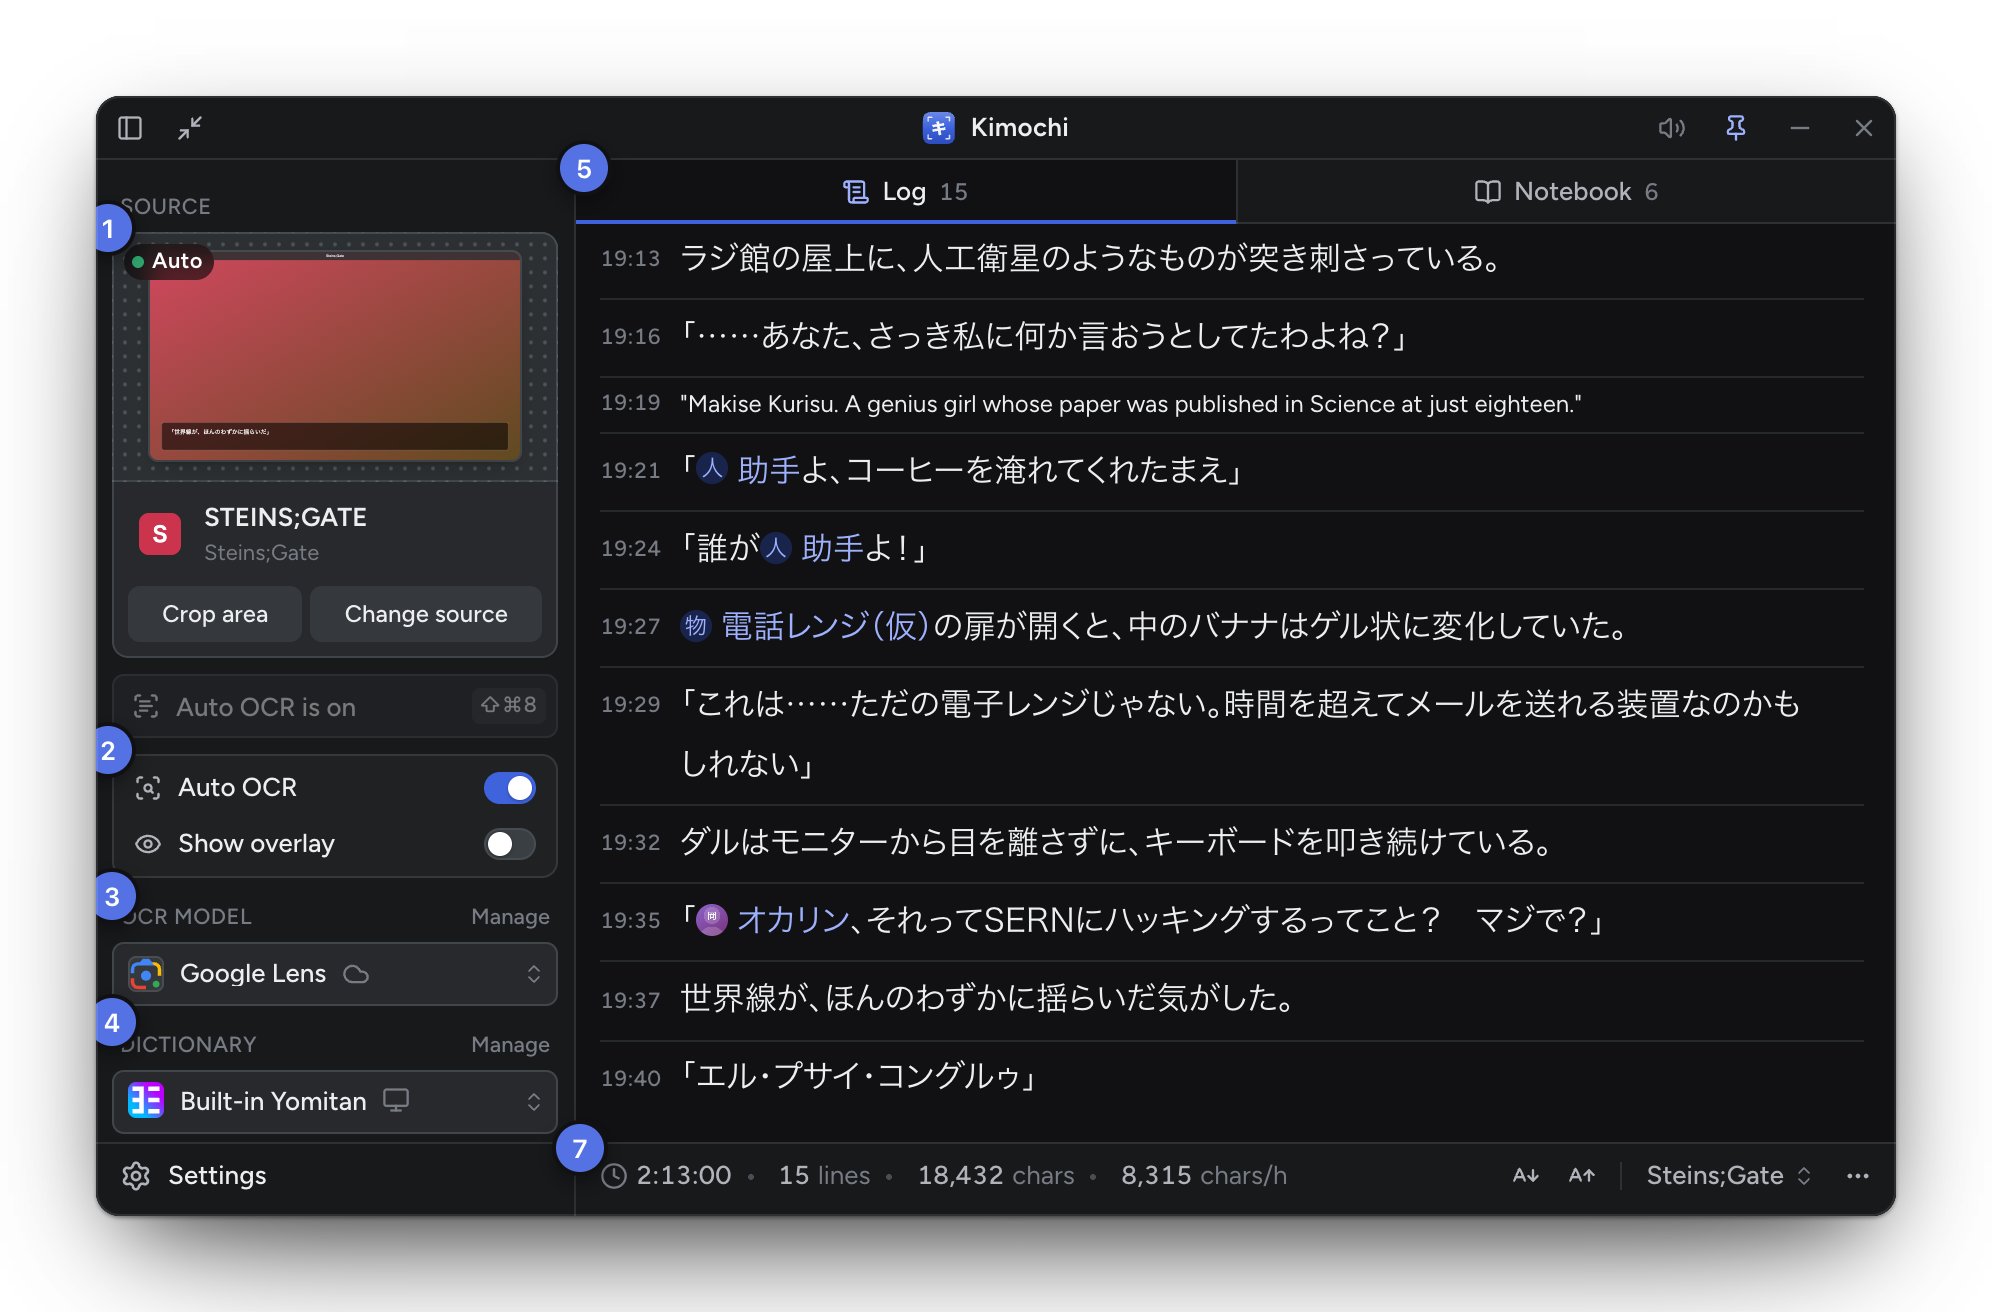
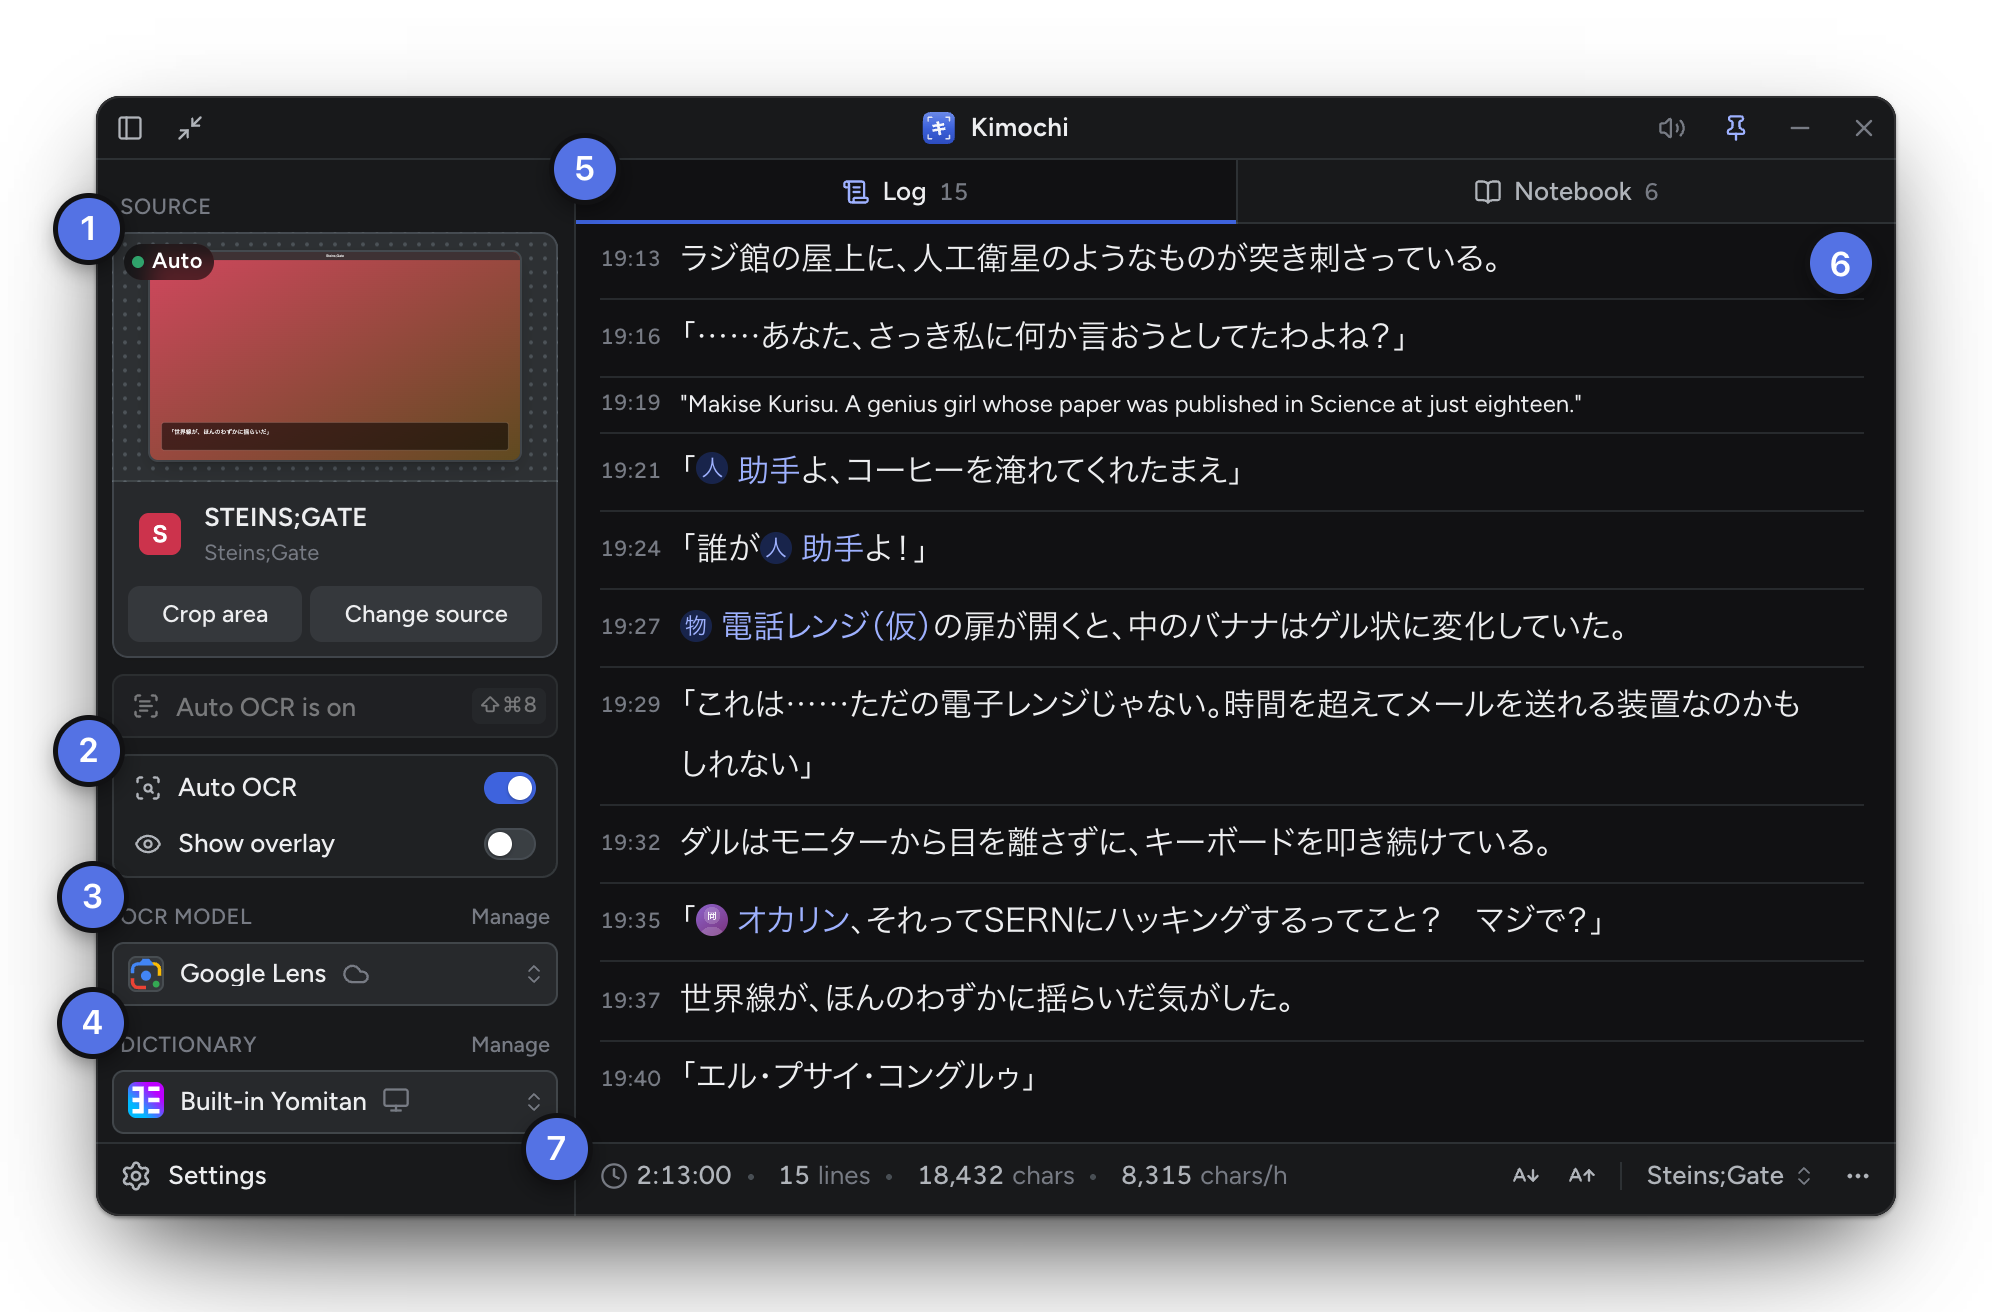
Docs screenshots: bigger badges outside the window's clip, clear of the labels
Badges in the main window tour were cut off at the window's edge and sat on
the labels they point at; 6 was hidden under 5. They now draw above the
window's clip, a third bigger, with a per-badge nudge.

diff --git a/site-docs/shots/stage/stage.css b/site-docs/shots/stage/stage.css
@@ -120,24 +120,32 @@ body {
   box-shadow: 0 0 0 200vmax var(--dim);
 }
 
+/* Badges sit over the window but outside its clip, so one on the window's edge stays whole (the
+   stage's padding leaves room for it). */
+#badges {
+  position: absolute;
+  inset: 0;
+  pointer-events: none;
+  z-index: 4;
+}
+
 .badge {
   position: absolute;
-  width: 24px;
-  height: 24px;
-  margin: -12px 0 0 -12px;
+  width: 31px;
+  height: 31px;
+  margin: -15.5px 0 0 -15.5px;
   border-radius: 999px;
   display: grid;
   place-items: center;
   background: var(--accent);
   color: #fff;
-  font-size: 13px;
+  font-size: 17px;
   font-weight: 620;
   font-variant-numeric: tabular-nums;
-  box-shadow: 0 0 0 2px #fff, 0 4px 12px rgb(15 17 26 / 0.3);
-  z-index: 4;
+  box-shadow: 0 0 0 2.5px #fff, 0 4px 12px rgb(15 17 26 / 0.3);
 }
 :root[data-theme='dark'] .badge {
-  box-shadow: 0 0 0 2px #111113, 0 4px 12px rgb(0 0 0 / 0.5);
+  box-shadow: 0 0 0 2.5px #111113, 0 4px 12px rgb(0 0 0 / 0.5);
 }
 
 /* Callout labels live on the stage (outside the window clip), so they can sit in the margin. */

diff --git a/site-docs/shots/stage/stage.js b/site-docs/shots/stage/stage.js
@@ -21,6 +21,7 @@ const viewport = document.getElementById('viewport')
 const frame = document.getElementById('app')
 const marks = document.getElementById('marks')
 const notes = document.getElementById('notes')
+const badges = document.getElementById('badges')
 
 const [width, height] = shot.size ?? [900, 560]
 
@@ -175,11 +176,12 @@ function mark() {
       badge.className = 'badge'
       badge.textContent = String(m.n)
       const at = m.at ?? 'top-left'
+      const [dx, dy] = m.nudge ?? [0, 0]
       place(badge, {
-        x: at.endsWith('right') ? b.x + b.width : b.x,
-        y: at.startsWith('bottom') ? b.y + b.height : b.y
+        x: (at.endsWith('right') ? b.x + b.width : b.x) + dx,
+        y: (at.startsWith('bottom') ? b.y + b.height : b.y) + dy
       })
-      marks.append(badge)
+      badges.append(badge)
     } else if (m.type === 'note') {
       const note = document.createElement('div')
       note.className = 'note'

diff --git a/site-docs/shots/stage/stage.html b/site-docs/shots/stage/stage.html
@@ -16,6 +16,7 @@
         <div id="titlebar" hidden><span id="title"></span></div>
         <div id="viewport"><iframe id="app" title="Kimochi"></iframe></div>
         <div id="marks"></div>
+        <div id="badges"></div>
       </div>
       <div id="notes"></div>
     </div>
